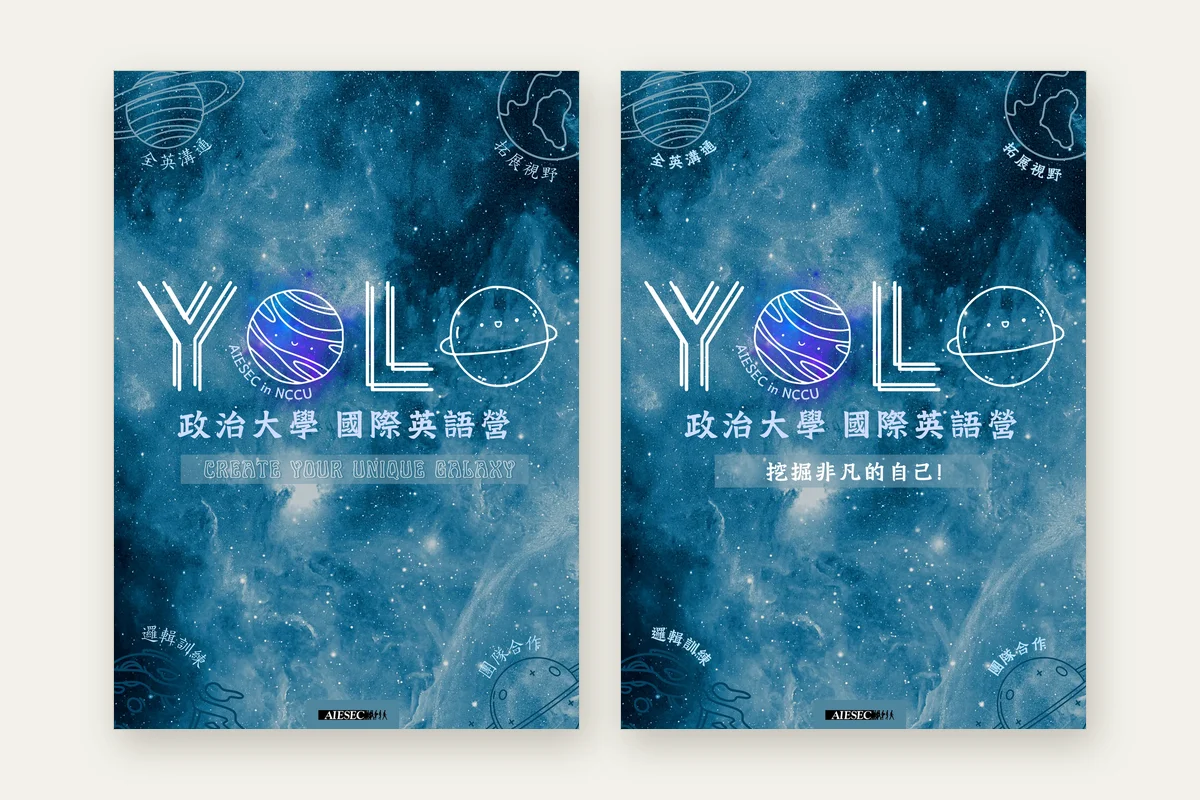
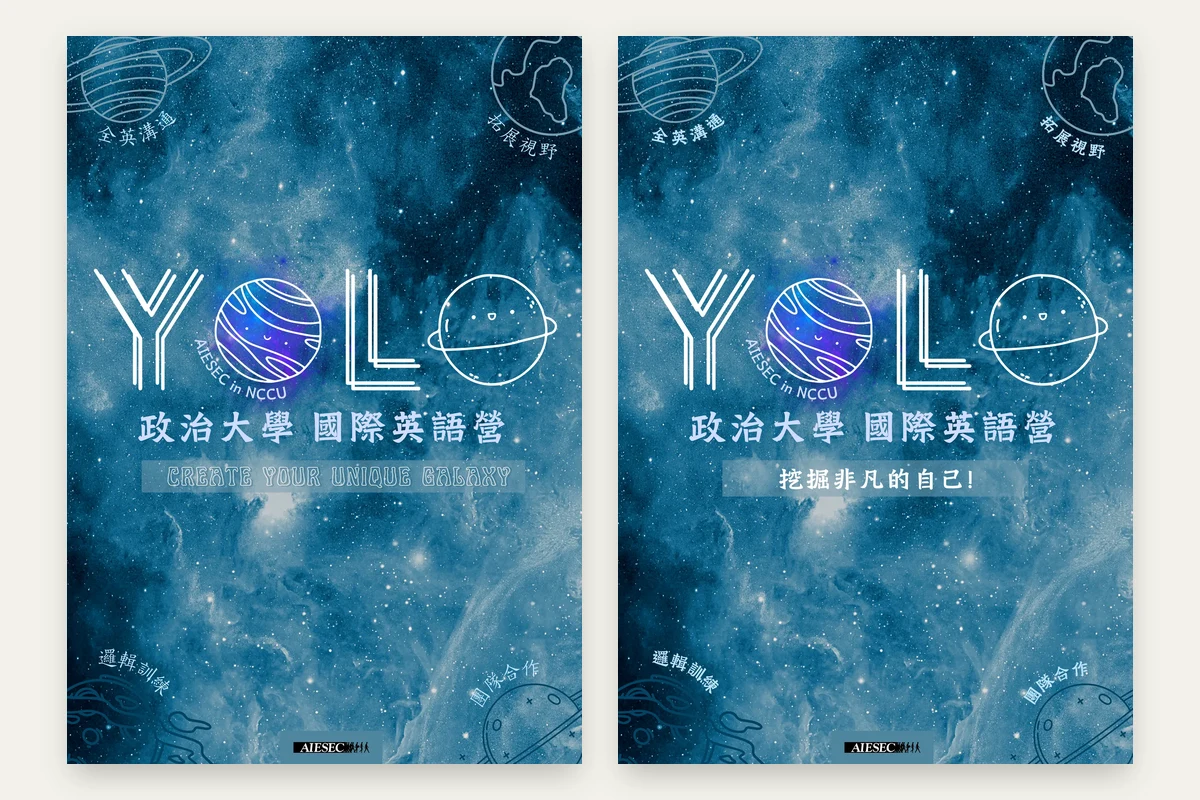
Portfolio Marketing : couvertures YOLO et Club de Guzheng resserrées, œuvres agrandies
Claude-Session: https://claude.ai/code/session_01HpdNrresHXhBcoo6q1cF5s

diff --git a/portfolio-marketing.html b/portfolio-marketing.html
@@ -1416,7 +1416,7 @@
         <span class="pf-cat-name" data-i18n="portfolio.mkt.board.p4Name">Engoo · Rapport Hebdomadaire</span>
       </a></li>
       <li><a class="pf-cat-card" href="#aiesec-yolo" data-target="aiesec-yolo" data-cat="creation">
-        <span class="pf-cat-cover"><img src="assets/covers/aiesec-yolo.webp" alt="" loading="lazy"></span>
+        <span class="pf-cat-cover"><img src="assets/covers/aiesec-yolo.webp?v=20261102" alt="" loading="lazy"></span>
         <span class="pf-cat-meta"><span class="pf-cat-n">03</span> · <span data-i18n="portfolio.mkt.board.p5Cat">Campagne · Direction Artistique · Design</span></span>
         <span class="pf-cat-name" data-i18n="portfolio.mkt.board.p5Name">AIESEC · Camp International YOLO</span>
         <span class="pf-cat-fig"><span class="pf-cat-val"><span data-lang-show="fr">+53,7 %</span><span data-lang-show="en">+53.7%</span><span data-lang-show="zh">+53.7%</span></span> <span class="pf-cat-lbl" data-i18n="portfolio.mkt.board.p5Lbl">Objectif budgétaire dépassé</span></span>
@@ -1468,7 +1468,7 @@
         <span class="pf-cat-fig"><span class="pf-cat-val"><span data-lang-show="fr">3 250 €</span><span data-lang-show="en">€3,250</span></span> <span class="pf-cat-lbl" data-i18n="portfolio.mkt.board.p7Lbl">Bénéfice net, 5 camps d'été</span></span>
       </a></li>
       <li><a class="pf-cat-card" href="#guzheng-facebook" data-target="guzheng-facebook" data-cat="creation">
-        <span class="pf-cat-cover"><img src="assets/covers/guzheng-facebook.webp" alt="" loading="lazy"></span>
+        <span class="pf-cat-cover"><img src="assets/covers/guzheng-facebook.webp?v=20261102" alt="" loading="lazy"></span>
         <span class="pf-cat-meta"><span class="pf-cat-n">05</span> · <span data-i18n="portfolio.mkt.board.p6Cat">Community Management · Design</span></span>
         <span class="pf-cat-name" data-i18n="portfolio.mkt.board.p6Name">Club de Guzheng · Page Facebook</span>
         <span class="pf-cat-fig"><span class="pf-cat-val">100 %</span> <span class="pf-cat-lbl" data-i18n="portfolio.mkt.board.p6Lbl">Places pourvues à chaque recrutement</span></span>
@@ -1516,7 +1516,7 @@
       <p class="pf-rail-lbl" data-i18n="portfolio.mkt.board.readProjects">Projets</p>
       <a class="pf-rail-item" href="#engoo-dashboard" data-target="engoo-dashboard"><span class="pf-rail-thumb"><img data-i18n-src="portfolio.mkt.board.cover1" src="assets/covers/engoo-dashboard.webp" alt="" loading="lazy"></span><span class="pf-rail-n">01</span><span class="pf-rail-name" data-i18n="portfolio.mkt.board.p1Name">Engoo · Dashboard Xiaohongshu</span></a>
       <a class="pf-rail-item" href="#engoo-weekly" data-target="engoo-weekly"><span class="pf-rail-thumb"><img data-i18n-src="portfolio.mkt.board.cover4" src="assets/covers/engoo-weekly.webp" alt="" loading="lazy"></span><span class="pf-rail-n">02</span><span class="pf-rail-name" data-i18n="portfolio.mkt.board.p4Name">Engoo · Rapport Hebdomadaire</span></a>
-      <a class="pf-rail-item" href="#aiesec-yolo" data-target="aiesec-yolo"><span class="pf-rail-thumb"><img src="assets/covers/aiesec-yolo.webp" alt="" loading="lazy"></span><span class="pf-rail-n">03</span><span class="pf-rail-name" data-i18n="portfolio.mkt.board.p5Name">AIESEC · Camp International YOLO</span></a>
+      <a class="pf-rail-item" href="#aiesec-yolo" data-target="aiesec-yolo"><span class="pf-rail-thumb"><img src="assets/covers/aiesec-yolo.webp?v=20261102" alt="" loading="lazy"></span><span class="pf-rail-n">03</span><span class="pf-rail-name" data-i18n="portfolio.mkt.board.p5Name">AIESEC · Camp International YOLO</span></a>
       <a class="pf-rail-item" href="#sora-education" data-target="sora-education"><span class="pf-rail-thumb"><span class="is-chart"><svg class="pf-slide-svg" viewBox="0 0 720 405" aria-hidden="true" focusable="false">
 <rect x="0.5" y="0.5" width="719" height="404" fill="var(--mk-card)" stroke="var(--mk-border)"/>
 <rect x="0" y="0" width="720" height="62" fill="var(--mk-text)"/>
@@ -1558,7 +1558,7 @@
 <text data-lang-show="fr" x="446" y="338" font-family="Outfit, sans-serif" font-size="13" fill="var(--mk-text)">2021 – 2022 contre 2016 – 2017 :</text><text data-lang-show="en" x="446" y="338" font-family="Outfit, sans-serif" font-size="13" fill="var(--mk-text)">2021 – 2022 vs 2016 – 2017:</text>
 <text data-lang-show="fr" x="446" y="356" font-family="Outfit, sans-serif" font-size="13" fill="var(--mk-text)">la tranche 6 – 12 ans s'élargit</text><text data-lang-show="en" x="446" y="356" font-family="Outfit, sans-serif" font-size="13" fill="var(--mk-text)">the 6 – 12 age group is growing</text>
 </svg></span></span><span class="pf-rail-n">04</span><span class="pf-rail-name" data-i18n="portfolio.mkt.board.p7Name">Sora Education · Étude de Marché</span></a>
-      <a class="pf-rail-item" href="#guzheng-facebook" data-target="guzheng-facebook"><span class="pf-rail-thumb"><img src="assets/covers/guzheng-facebook.webp" alt="" loading="lazy"></span><span class="pf-rail-n">05</span><span class="pf-rail-name" data-i18n="portfolio.mkt.board.p6Name">Club de Guzheng · Page Facebook</span></a>
+      <a class="pf-rail-item" href="#guzheng-facebook" data-target="guzheng-facebook"><span class="pf-rail-thumb"><img src="assets/covers/guzheng-facebook.webp?v=20261102" alt="" loading="lazy"></span><span class="pf-rail-n">05</span><span class="pf-rail-name" data-i18n="portfolio.mkt.board.p6Name">Club de Guzheng · Page Facebook</span></a>
       <a class="pf-rail-item" href="#bcg-beaute" data-target="bcg-beaute"><span class="pf-rail-thumb"><img data-i18n-src="sephoraBI.cover" src="assets/covers/sephora-matrice.webp" alt="" loading="lazy"></span><span class="pf-rail-n">06</span><span class="pf-rail-name" data-i18n="portfolio.mkt.board.p2Name">Sephora · Intelligence Produit</span></a>
       <a class="pf-rail-item" href="#maison-beaute" data-target="maison-beaute"><span class="pf-rail-thumb"><img data-i18n-src="pyCovers.beaute" src="assets/covers/maison-beaute.webp" alt="" loading="lazy"></span><span class="pf-rail-n">07</span><span class="pf-rail-name" data-i18n="portfolio.mkt.board.p3Name">Maison Beauté · Diagnostic Client</span></a>
     </nav>
@@ -1726,7 +1726,7 @@
 </div>
 </div></div><span class="ex-roll" aria-hidden="true"></span></div>
     </section>
-  </div>      <div class="mk-sep" data-reveal aria-hidden="true"><svg class="mk-sep-filet" viewBox="0 0 600 6" preserveAspectRatio="none" focusable="false"><path filter="url(#mk-encre)" d="M4,2.2 C120,1.5 300,1.9 470,2.4 C560,2.7 580,2.6 596,2.2 C598,2.15 598,3.6 596,3.7 C580,4.1 560,4 470,3.7 C300,3.2 120,3.4 4,4 C1.5,4.1 1.5,2.3 4,2.2 Z"/></svg><svg class="mk-sep-orn" width="200" height="59" viewBox="0 0 285.9 84.1" focusable="false"><use href="#mk-guzheng" width="285.9" height="84.1"/></svg><svg class="mk-sep-filet" viewBox="0 0 600 6" preserveAspectRatio="none" focusable="false"><path filter="url(#mk-encre)" d="M4,2.2 C120,1.5 300,1.9 470,2.4 C560,2.7 580,2.6 596,2.2 C598,2.15 598,3.6 596,3.7 C580,4.1 560,4 470,3.7 C300,3.2 120,3.4 4,4 C1.5,4.1 1.5,2.3 4,2.2 Z"/></svg></div><a class="pf-next" data-target="aiesec-yolo" href="#aiesec-yolo"><span class="pf-next-txt"><span class="pf-next-lbl" data-i18n="portfolio.mkt.board.readNext">Projet suivant</span><span class="pf-next-name" data-i18n="portfolio.mkt.board.p5Name">AIESEC · Camp International YOLO</span></span><span class="pf-next-cover"><img alt="" loading="lazy" src="assets/covers/aiesec-yolo.webp"/></span></a></article>
+  </div>      <div class="mk-sep" data-reveal aria-hidden="true"><svg class="mk-sep-filet" viewBox="0 0 600 6" preserveAspectRatio="none" focusable="false"><path filter="url(#mk-encre)" d="M4,2.2 C120,1.5 300,1.9 470,2.4 C560,2.7 580,2.6 596,2.2 C598,2.15 598,3.6 596,3.7 C580,4.1 560,4 470,3.7 C300,3.2 120,3.4 4,4 C1.5,4.1 1.5,2.3 4,2.2 Z"/></svg><svg class="mk-sep-orn" width="200" height="59" viewBox="0 0 285.9 84.1" focusable="false"><use href="#mk-guzheng" width="285.9" height="84.1"/></svg><svg class="mk-sep-filet" viewBox="0 0 600 6" preserveAspectRatio="none" focusable="false"><path filter="url(#mk-encre)" d="M4,2.2 C120,1.5 300,1.9 470,2.4 C560,2.7 580,2.6 596,2.2 C598,2.15 598,3.6 596,3.7 C580,4.1 560,4 470,3.7 C300,3.2 120,3.4 4,4 C1.5,4.1 1.5,2.3 4,2.2 Z"/></svg></div><a class="pf-next" data-target="aiesec-yolo" href="#aiesec-yolo"><span class="pf-next-txt"><span class="pf-next-lbl" data-i18n="portfolio.mkt.board.readNext">Projet suivant</span><span class="pf-next-name" data-i18n="portfolio.mkt.board.p5Name">AIESEC · Camp International YOLO</span></span><span class="pf-next-cover"><img alt="" loading="lazy" src="assets/covers/aiesec-yolo.webp?v=20261102"/></span></a></article>
 <article class="pf-case ex ex--hand" data-cat="creation" id="aiesec-yolo">
   <div class="ex-expo">
     <header class="ex-preface ex-preface--affiche">
@@ -1748,7 +1748,7 @@
 <span class="pf-tag"><span data-lang-show="fr">Design Visuel</span><span data-lang-show="en">Visual Design</span></span>
 </div></div>
         </div>
-        <div class="ex-affiche"><div class="ex-scroll"><figure class="pf-case-cover"><div class="pf-img-wrap pf-cover-wrap"><img data-land src="assets/covers/aiesec-yolo.webp" alt="AIESEC YOLO International Camp – Main Campaign Posters" width="1200" height="800"><a class="pf-cover-hit" href="assets/yolo-camp-main-visual-en.webp" target="_blank" rel="noopener noreferrer" aria-label="Poster – English" style="left:9.42%;top:8.75%;width:38.92%;height:82.5%"></a><a class="pf-cover-hit" href="assets/yolo-camp-main-visual-zh.webp" target="_blank" rel="noopener noreferrer" aria-label="Poster – Chinese" style="left:51.67%;top:8.75%;width:38.92%;height:82.5%"></a></div><figcaption class="pf-img-caption"><span data-i18n="portfolio.mkt.aiesec.cap1">Affiche principale – version anglaise</span> · <span data-i18n="portfolio.mkt.aiesec.cap2">Affiche principale – version chinoise</span></figcaption></figure></div></div>
+        <div class="ex-affiche"><div class="ex-scroll"><figure class="pf-case-cover"><div class="pf-img-wrap pf-cover-wrap"><img data-land src="assets/covers/aiesec-yolo.webp?v=20261102" alt="AIESEC YOLO International Camp – Main Campaign Posters" width="1200" height="800"><a class="pf-cover-hit" href="assets/yolo-camp-main-visual-en.webp" target="_blank" rel="noopener noreferrer" aria-label="Poster – English" style="left:5.58%;top:4.5%;width:42.92%;height:91%"></a><a class="pf-cover-hit" href="assets/yolo-camp-main-visual-zh.webp" target="_blank" rel="noopener noreferrer" aria-label="Poster – Chinese" style="left:51.5%;top:4.5%;width:42.92%;height:91%"></a></div><figcaption class="pf-img-caption"><span data-i18n="portfolio.mkt.aiesec.cap1">Affiche principale – version anglaise</span> · <span data-i18n="portfolio.mkt.aiesec.cap2">Affiche principale – version chinoise</span></figcaption></figure></div></div>
       </div><!-- Logo first --><!-- Instagram posts carousel --><!-- <div class="pf-star pf-star--insight">
         <div class="pf-star-lbl">
           <span data-lang-show="fr">Défi</span>
@@ -2003,7 +2003,7 @@
 <p class="pf-star-txt">Two limits: Taoyuan (14.35%) would have been a credible alternative that the figures alone cannot separate from Taichung; and these statistics say nothing about market prices or venue costs, which also weigh in a location decision. Outcome of the decision: five summer camps and €3,250 in net profit.</p>
 </div>
 </div><section class="pf-refs"><p class="pf-refs-title"><span data-lang-show="fr">Références</span><span data-lang-show="en">References</span></p><ol class="pf-refs-list"><li><span data-lang-show="fr">Formosa Language Center. (2022). <em>Camp d'été STEAM d'anglais 2022 à Taichung</em> [Page web, en chinois]. <a href="https://fflc.tw/2022-steam-summer-camp2/" target="_blank" rel="noopener noreferrer">https://fflc.tw/2022-steam-summer-camp2/</a></span><span data-lang-show="en">Formosa Language Center. (2022). <em>2022 STEAM English summer camp in Taichung</em> [Web page, in Chinese]. <a href="https://fflc.tw/2022-steam-summer-camp2/" target="_blank" rel="noopener noreferrer">https://fflc.tw/2022-steam-summer-camp2/</a></span></li><li><span data-lang-show="fr">Ministère de l'Intérieur de Taïwan, Département de l'état civil. (2022). <em>Population par âge, fin 2021</em> [Jeu de données, en chinois]. <a href="https://www.ris.gov.tw/app/portal/346" target="_blank" rel="noopener noreferrer">https://www.ris.gov.tw/app/portal/346</a></span><span data-lang-show="en">Ministry of the Interior (Taiwan), Department of Household Registration. (2022). <em>Population by age, end of 2021</em> [Data set, in Chinese]. <a href="https://www.ris.gov.tw/app/portal/346" target="_blank" rel="noopener noreferrer">https://www.ris.gov.tw/app/portal/346</a></span></li><li><span data-lang-show="fr">Ville de New Taipei, Département des affaires civiles. (2023). <em>The Yearbook of Population Statistics of New Taipei, 2022</em> [Annuaire statistique de la population de New Taipei, en chinois]. <a href="https://www.ca.ntpc.gov.tw/userfiles/1011000/files/%E6%96%B0%E5%8C%97%E5%B8%82%E6%94%BF%E5%BA%9C%E6%B0%91%E6%94%BF%E5%B1%80111%E5%B9%B4%E7%B5%B1%E8%A8%88%E5%B9%B4%E5%A0%B1v3.pdf" target="_blank" rel="noopener noreferrer">www.ca.ntpc.gov.tw (PDF)</a></span><span data-lang-show="en">New Taipei City Government, Department of Civil Affairs. (2023). <em>The yearbook of population statistics of New Taipei, 2022</em> [In Chinese]. <a href="https://www.ca.ntpc.gov.tw/userfiles/1011000/files/%E6%96%B0%E5%8C%97%E5%B8%82%E6%94%BF%E5%BA%9C%E6%B0%91%E6%94%BF%E5%B1%80111%E5%B9%B4%E7%B5%B1%E8%A8%88%E5%B9%B4%E5%A0%B1v3.pdf" target="_blank" rel="noopener noreferrer">www.ca.ntpc.gov.tw (PDF)</a></span></li><li><span data-lang-show="fr">Ville de Taichung, Service de la comptabilité et des statistiques. (2022a). <em>Répartition des ressources de l'enseignement primaire à Taichung</em> (Analyse statistique municipale n° 111-009) [En chinois]. <a href="https://www.dbas.taichung.gov.tw/media/877443/111-009-%E8%87%BA%E4%B8%AD%E5%B8%82%E5%9C%8B%E6%B0%91%E5%B0%8F%E5%AD%B8%E6%95%99%E8%82%B2%E8%B3%87%E6%BA%90%E5%88%86%E9%85%8D.pdf" target="_blank" rel="noopener noreferrer">www.dbas.taichung.gov.tw (PDF)</a></span><span data-lang-show="en">Taichung City Government, Budget, Accounting and Statistics Office. (2022a). <em>Allocation of primary education resources in Taichung</em> (Municipal Statistics Brief No. 111-009) [In Chinese]. <a href="https://www.dbas.taichung.gov.tw/media/877443/111-009-%E8%87%BA%E4%B8%AD%E5%B8%82%E5%9C%8B%E6%B0%91%E5%B0%8F%E5%AD%B8%E6%95%99%E8%82%B2%E8%B3%87%E6%BA%90%E5%88%86%E9%85%8D.pdf" target="_blank" rel="noopener noreferrer">www.dbas.taichung.gov.tw (PDF)</a></span></li><li><span data-lang-show="fr">Ville de Taichung, Service de la comptabilité et des statistiques. (2022b). <em>Revenus et dépenses des ménages de Taichung en 2021</em> (Bulletin de statistiques économiques n° 111-03) [En chinois]. <a href="https://www.dbas.taichung.gov.tw/media/869331/%E4%B8%BB%E8%A8%88%E8%99%95%E7%B6%93%E6%BF%9F%E7%B5%B1%E8%A8%88%E9%80%9A%E5%A0%B1%E7%AC%AC111-03%E8%99%9F-%E8%87%BA%E4%B8%AD%E5%B8%82110%E5%B9%B4%E5%AE%B6%E5%BA%AD%E6%94%B6%E6%94%AF%E6%A6%82%E6%B3%81.pdf" target="_blank" rel="noopener noreferrer">www.dbas.taichung.gov.tw (PDF)</a></span><span data-lang-show="en">Taichung City Government, Budget, Accounting and Statistics Office. (2022b). <em>Household income and expenditure in Taichung, 2021</em> (Economic Statistics Bulletin No. 111-03) [In Chinese]. <a href="https://www.dbas.taichung.gov.tw/media/869331/%E4%B8%BB%E8%A8%88%E8%99%95%E7%B6%93%E6%BF%9F%E7%B5%B1%E8%A8%88%E9%80%9A%E5%A0%B1%E7%AC%AC111-03%E8%99%9F-%E8%87%BA%E4%B8%AD%E5%B8%82110%E5%B9%B4%E5%AE%B6%E5%BA%AD%E6%94%B6%E6%94%AF%E6%A6%82%E6%B3%81.pdf" target="_blank" rel="noopener noreferrer">www.dbas.taichung.gov.tw (PDF)</a></span></li><li><span data-lang-show="fr">Ville de Taipei, Bureau de l'éducation. (2022). <em>Prévision des effectifs des écoles primaires, collèges et lycées de Taipei (années scolaires 2022 – 2041)</em> [En chinois]. <a href="https://www-ws.gov.taipei/001/Upload/342/relfile/36967/8550528/4bac53df-4fe6-4f00-89b1-4416682e4b71.pdf" target="_blank" rel="noopener noreferrer">www-ws.gov.taipei (PDF)</a></span><span data-lang-show="en">Taipei City Government, Department of Education. (2022). <em>Projected student numbers in Taipei primary, junior high and senior high schools (school years 2022 – 2041)</em> [In Chinese]. <a href="https://www-ws.gov.taipei/001/Upload/342/relfile/36967/8550528/4bac53df-4fe6-4f00-89b1-4416682e4b71.pdf" target="_blank" rel="noopener noreferrer">www-ws.gov.taipei (PDF)</a></span></li></ol></section></section>
-  </div><div class="mk-sep" data-reveal aria-hidden="true"><svg class="mk-sep-filet" viewBox="0 0 600 6" preserveAspectRatio="none" focusable="false"><path filter="url(#mk-encre)" d="M4,2.2 C120,1.5 300,1.9 470,2.4 C560,2.7 580,2.6 596,2.2 C598,2.15 598,3.6 596,3.7 C580,4.1 560,4 470,3.7 C300,3.2 120,3.4 4,4 C1.5,4.1 1.5,2.3 4,2.2 Z"/></svg><svg class="mk-sep-orn" width="200" height="59" viewBox="0 0 285.9 84.1" focusable="false"><use href="#mk-guzheng" width="285.9" height="84.1"/></svg><svg class="mk-sep-filet" viewBox="0 0 600 6" preserveAspectRatio="none" focusable="false"><path filter="url(#mk-encre)" d="M4,2.2 C120,1.5 300,1.9 470,2.4 C560,2.7 580,2.6 596,2.2 C598,2.15 598,3.6 596,3.7 C580,4.1 560,4 470,3.7 C300,3.2 120,3.4 4,4 C1.5,4.1 1.5,2.3 4,2.2 Z"/></svg></div><a class="pf-next" data-target="guzheng-facebook" href="#guzheng-facebook"><span class="pf-next-txt"><span class="pf-next-lbl" data-i18n="portfolio.mkt.board.readNext">Projet suivant</span><span class="pf-next-name" data-i18n="portfolio.mkt.board.p6Name">Club de Guzheng · Page Facebook</span></span><span class="pf-next-cover"><img alt="" loading="lazy" src="assets/covers/guzheng-facebook.webp"/></span></a></article>
+  </div><div class="mk-sep" data-reveal aria-hidden="true"><svg class="mk-sep-filet" viewBox="0 0 600 6" preserveAspectRatio="none" focusable="false"><path filter="url(#mk-encre)" d="M4,2.2 C120,1.5 300,1.9 470,2.4 C560,2.7 580,2.6 596,2.2 C598,2.15 598,3.6 596,3.7 C580,4.1 560,4 470,3.7 C300,3.2 120,3.4 4,4 C1.5,4.1 1.5,2.3 4,2.2 Z"/></svg><svg class="mk-sep-orn" width="200" height="59" viewBox="0 0 285.9 84.1" focusable="false"><use href="#mk-guzheng" width="285.9" height="84.1"/></svg><svg class="mk-sep-filet" viewBox="0 0 600 6" preserveAspectRatio="none" focusable="false"><path filter="url(#mk-encre)" d="M4,2.2 C120,1.5 300,1.9 470,2.4 C560,2.7 580,2.6 596,2.2 C598,2.15 598,3.6 596,3.7 C580,4.1 560,4 470,3.7 C300,3.2 120,3.4 4,4 C1.5,4.1 1.5,2.3 4,2.2 Z"/></svg></div><a class="pf-next" data-target="guzheng-facebook" href="#guzheng-facebook"><span class="pf-next-txt"><span class="pf-next-lbl" data-i18n="portfolio.mkt.board.readNext">Projet suivant</span><span class="pf-next-name" data-i18n="portfolio.mkt.board.p6Name">Club de Guzheng · Page Facebook</span></span><span class="pf-next-cover"><img alt="" loading="lazy" src="assets/covers/guzheng-facebook.webp?v=20261102"/></span></a></article>
 <article class="pf-case ex ex--hand" data-cat="creation" id="guzheng-facebook">
   <div class="ex-expo">
     <header class="ex-preface ex-preface--affiche">
@@ -2021,7 +2021,7 @@
 <span class="pf-tag"><span data-lang-show="fr">Design Visuel</span><span data-lang-show="en">Visual Design</span></span>
 </div></div>
         </div>
-        <div class="ex-affiche"><div class="ex-scroll"><figure class="pf-case-cover"><div class="pf-img-wrap pf-cover-wrap"><img data-land src="assets/covers/guzheng-facebook.webp" alt="NCCU Guzheng Club – Recruitment Poster and Year-end Gathering" width="1200" height="800"><a class="pf-cover-hit" href="assets/guzheng-club-recruitment-poster.webp" target="_blank" rel="noopener noreferrer" aria-label="Recruitment poster" style="left:5.0%;top:19.5%;width:38.33%;height:60.88%"></a><a class="pf-cover-hit" href="assets/guzheng-club-year-end-gathering.webp" target="_blank" rel="noopener noreferrer" aria-label="Year-end gathering" style="left:46.67%;top:19.5%;width:48.33%;height:60.88%"></a></div><figcaption class="pf-img-caption"><span data-i18n="portfolio.guzheng.cap1">Affiche de recrutement</span> · <span data-i18n="portfolio.guzheng.cap2">Réunion de fin de semestre</span></figcaption></figure></div></div>
+        <div class="ex-affiche"><div class="ex-scroll"><figure class="pf-case-cover"><div class="pf-img-wrap pf-cover-wrap"><img data-land src="assets/covers/guzheng-facebook.webp?v=20261102" alt="NCCU Guzheng Club – Recruitment Poster and Year-end Gathering" width="1200" height="800"><a class="pf-cover-hit" href="assets/guzheng-club-recruitment-poster.webp" target="_blank" rel="noopener noreferrer" aria-label="Recruitment poster" style="left:3.08%;top:18.12%;width:40.17%;height:63.75%"></a><a class="pf-cover-hit" href="assets/guzheng-club-year-end-gathering.webp" target="_blank" rel="noopener noreferrer" aria-label="Year-end gathering" style="left:46.25%;top:18.12%;width:50.67%;height:63.75%"></a></div><figcaption class="pf-img-caption"><span data-i18n="portfolio.guzheng.cap1">Affiche de recrutement</span> · <span data-i18n="portfolio.guzheng.cap2">Réunion de fin de semestre</span></figcaption></figure></div></div>
       </div>
     </header>
     

diff --git a/tools/build-creation-covers.py b/tools/build-creation-covers.py
@@ -1,0 +1,43 @@
+"""Couvertures des projets de création de portfolio-marketing.html
+(AIESEC YOLO, Club de Guzheng) : œuvres entières, côte à côte, à la même
+hauteur, sur le papier #f3f1ea, avec le moins de marge possible tout en
+gardant de l'air autour (demande de l'utilisatrice : « réduire le fond uni,
+agrandir les images »).
+Écrit assets/covers/aiesec-yolo.webp et guzheng-facebook.webp (1 200 × 800)
+et affiche la position de chaque œuvre en % pour les zones cliquables
+.pf-cover-hit de la page."""
+from pathlib import Path
+from PIL import Image, ImageDraw, ImageFilter
+
+ROOT = Path(__file__).resolve().parent.parent
+W, H = 1200, 800
+MARGE, ECART = 36, 36
+PAPIER = (243, 241, 235)
+ENCRE = (26, 24, 21)
+
+COUVERTURES = {
+    'aiesec-yolo': ['yolo-camp-main-visual-en', 'yolo-camp-main-visual-zh'],
+    'guzheng-facebook': ['guzheng-club-recruitment-poster', 'guzheng-club-year-end-gathering'],
+}
+
+for nom, oeuvres in COUVERTURES.items():
+    ims = [Image.open(ROOT / 'assets' / f'{o}.webp').convert('RGB') for o in oeuvres]
+    ratios = [im.width / im.height for im in ims]
+    h = min(H - 2 * MARGE, (W - 2 * MARGE - ECART * (len(ims) - 1)) / sum(ratios))
+    h = int(h)
+    tailles = [(round(r * h), h) for r in ratios]
+    total = sum(t[0] for t in tailles) + ECART * (len(ims) - 1)
+    x, y = (W - total) // 2, (H - h) // 2
+    toile = Image.new('RGB', (W, H), PAPIER)
+    ombre = Image.new('L', (W, H), 0)
+    places = []
+    for (w, _), im in zip(tailles, ims):
+        ImageDraw.Draw(ombre).rectangle((x + 6, y + 12, x + w - 6, y + h + 8), fill=70)
+        places.append((x, y, w, h, im.resize((w, h), Image.LANCZOS)))
+        x += w + ECART
+    ombre = ombre.filter(ImageFilter.GaussianBlur(14))
+    toile = Image.composite(Image.new('RGB', (W, H), ENCRE), toile, ombre)
+    for px, py, w, h_, im in places:
+        toile.paste(im, (px, py))
+        print(f'{nom}: left:{px / W * 100:.2f}%;top:{py / H * 100:.2f}%;width:{w / W * 100:.2f}%;height:{h_ / H * 100:.2f}%')
+    toile.save(ROOT / 'assets' / 'covers' / f'{nom}.webp', 'WEBP', quality=88)

diff --git a/CLAUDE.md b/CLAUDE.md
@@ -196,6 +196,7 @@ Order proof cards within a skill by importance (descending):
   - **Diapositives du rapport hebdomadaire Engoo : une à la fois** (demande de l'utilisatrice, sinon illisibles), sur les deux portfolios (`initCarousel(..., 1)` et `#weeklyFR/EN .ig-item` à 100 %). Le carrousel YOLO garde trois publications. **La diapositive entière tient toujours dans l'écran** (demande de l'utilisatrice : ni trop petite ni coupée) : largeur de la salle pleine page limitée à `(100vh − 260px) × 16/9`.
   - **Ajouter un projet** : écrire l'article dans l'ancien format (colonne gauche, couverture, résumé, étude dans `details.pf-case-more`), puis relancer `tools/build-exposition.py` sur la page, ou l'écrire directement dans la structure `.ex-*` d'un projet existant.
   - **Couvertures sans recadrage visible** : chaque couverture d'image est une composition au format exact 3:2 dans `assets/covers/` (œuvres entières posées sur le papier `#f3f1ea`, plusieurs pièces côte à côte ou diapositives empilées si besoin). On ne laisse jamais le CSS couper une affiche, une diapositive ou un dashboard.
+  - **Peu de fond uni autour des œuvres** (demande de l'utilisatrice : « garder l'air, mais agrandir les images ») : marges et écart de 36 px sur 1 200 × 800, œuvres à la même hauteur. Couvertures YOLO et Club de Guzheng écrites par `tools/build-creation-covers.py`, qui affiche les positions en % à reporter dans les zones `.pf-cover-hit` ; liens de la page en `?v=AAAAMMJJ` pour que le navigateur reprenne l'image (changer la date à chaque nouvelle version).
   - **Une couverture n'est jamais un simple chiffre** : un projet sans image reçoit une visualisation de ses propres données (graphique, matrice, diapositive façon rapport d'affaires), construite uniquement à partir des chiffres déjà présents dans l'étude.
   - **Un projet qui a produit ses propres graphiques (Python, Power BI, Tableau…) les prend pour couverture, jamais un graphique dessiné par la page** (demande de l'utilisatrice). Composition 3:2 (1 200 × 800) sur la couleur de carte de la page, graphiques entiers, celui du nettoyage derrière et le constat clé devant : `tools/build-python-covers.py` écrit `assets/covers/boutique-mode-data(-en).webp` et `maison-beaute(-en).webp` (graphiques 1 et 2 de chaque projet), clés `pyCovers.*` de `main.js`, utilisées par la fiche, la vignette, « Projet suivant » et la couverture d'arrivée `[data-land]`. Relancer le script si une nouvelle version des graphiques est validée. Les couvertures SVG ne restent que pour les projets sans graphique ni livrable produit (M&A, Sora). **Chocolat : couverture tirée du tableau de bord Tableau** (les trois blocs de constats empilés, les canaux devant, sur la carte céladon) : `tools/build-tableau-covers.py` écrit `assets/covers/chocolat-data(-en).webp` (clé `pyCovers.chocolat`) et `assets/Tableau_Chocolate/images/V{n}/constat-{1,2,3}-{fr,en}.webp` à partir des PDF exportés par l'utilisatrice. **Rapport hebdomadaire XHS sur `portfolio-data.html` : couverture faite des diapositives de l'utilisatrice** (demande : ses propres supports, jamais un graphique dessiné par le site), diapositive 2 derrière, 1 devant, sur la carte céladon : `tools/build-weekly-covers.py` écrit `assets/covers/engoo-weekly-data(-en).webp`, clé `portfolio.data.coverWeekly` (fiche, vignette, « Projet suivant » et affiche `[data-land]`).
   - Tout texte visible existe en français et en anglais (clé i18n dans `main.js` ou paires `data-lang-show`), y compris dans les SVG et les chiffres (`8 495` / `8,495`).
